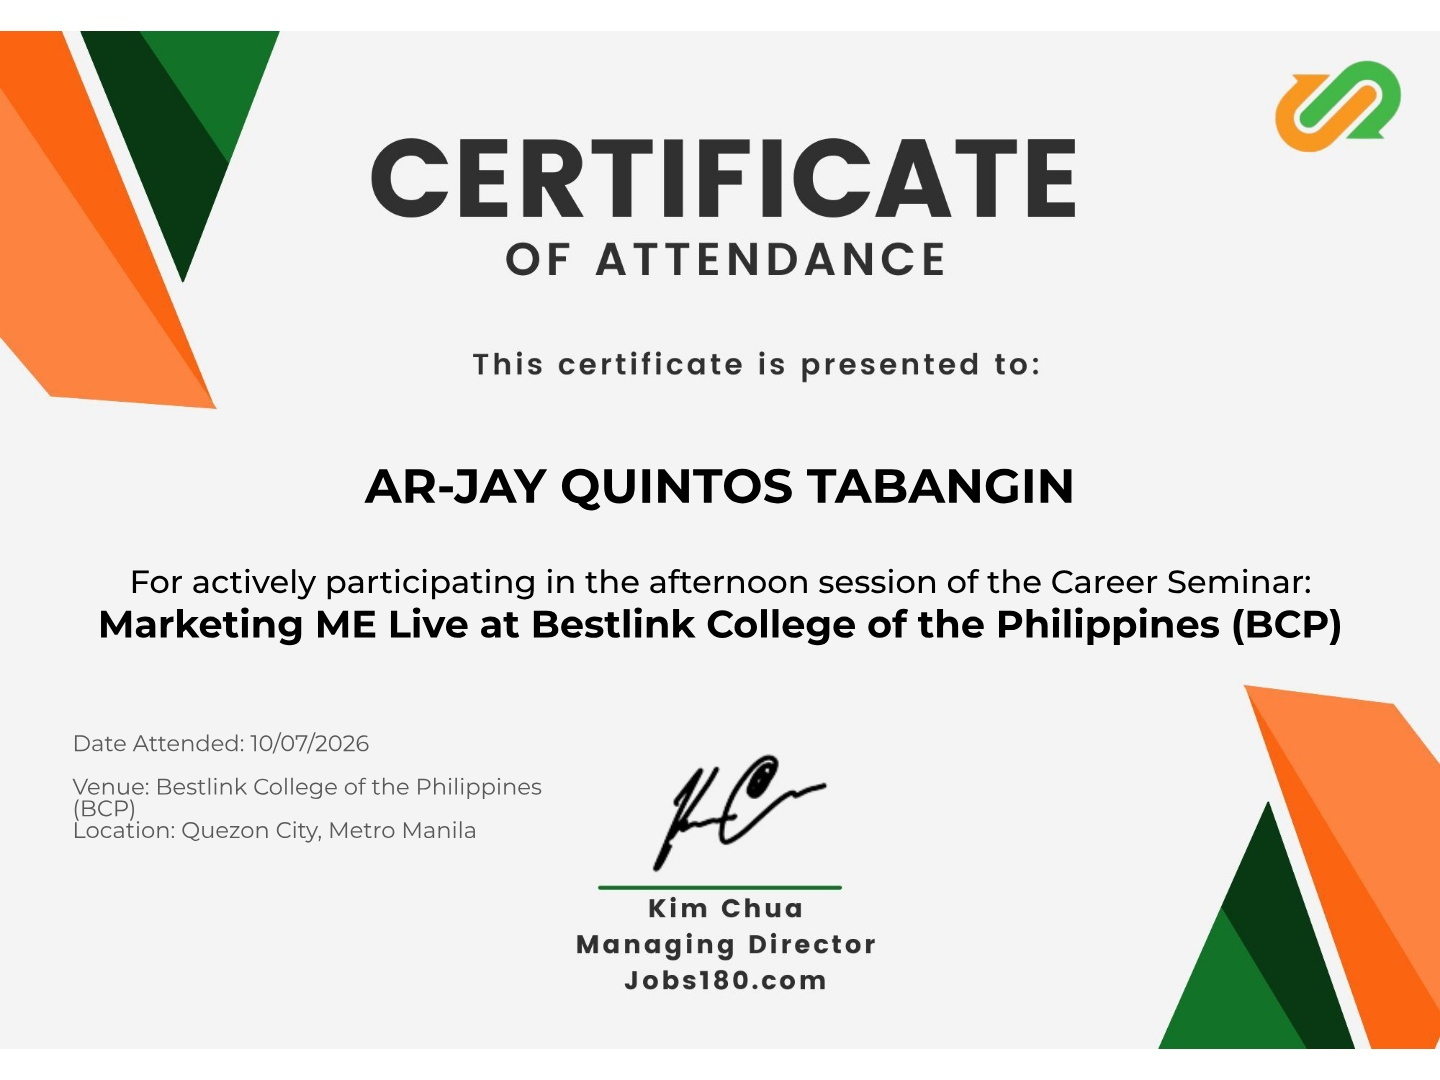
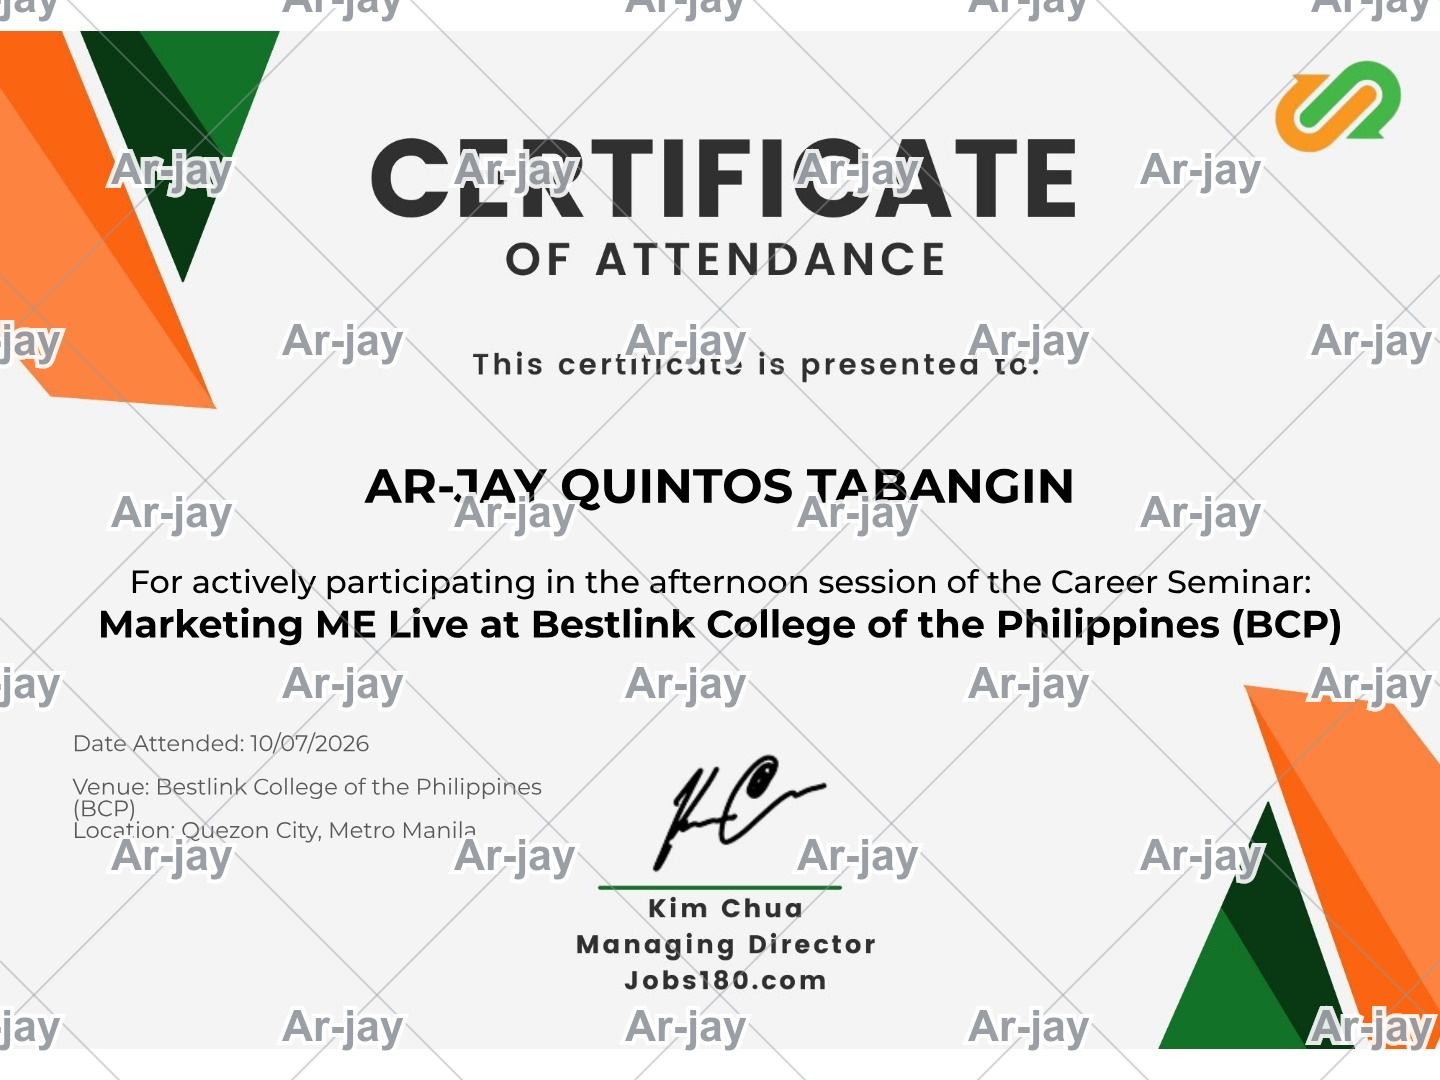
Add anti-theft diagonal Ar-jay watermark to all certificates and disable context menu on previews

diff --git a/portfolio/app/page.tsx b/portfolio/app/page.tsx
@@ -101,7 +101,7 @@ export default function PortfolioPage() {
       description:
         'Official student-level course completion credential covering foundational cybersecurity principles, threat detection, online defense strategies, vulnerability mitigation, and organizational network safety.',
       skills: ['Cybersecurity', 'Threat Analysis', 'Network Defense', 'Incident Mitigation'],
-      image: '/certificates/cisco_cybersecurity.jpg?v=2',
+      image: '/certificates/cisco_cybersecurity.jpg?v=watermarked',
     },
     {
       id: 'cert-2',
@@ -114,7 +114,7 @@ export default function PortfolioPage() {
       description:
         'Official 16-hour credential awarded by the DICT ICT Academy covering international cybersecurity governance, risk management frameworks, and enterprise IT defense conducted in Tacloban City.',
       skills: ['Cybersecurity Governance', 'IT Management', 'Security Standards', 'Risk Management'],
-      image: '/certificates/dict_cybersecurity.jpg?v=2',
+      image: '/certificates/dict_cybersecurity.jpg?v=watermarked',
     },
     {
       id: 'cert-3',
@@ -128,7 +128,7 @@ export default function PortfolioPage() {
       description:
         'Comprehensive completion credential for mastering AI-driven development workflows, prompt engineering, AI coding assistants, and modern software paradigms taught by Mar Wie Ang.',
       skills: ['AI-Driven Development', 'Prompt Engineering', 'Full Stack AI', 'Modern Workflows'],
-      image: '/certificates/aidev_fundamentals.jpg?v=2',
+      image: '/certificates/aidev_fundamentals.jpg?v=watermarked',
     },
     {
       id: 'cert-4',
@@ -141,7 +141,7 @@ export default function PortfolioPage() {
       description:
         'Official Certificate of Attendance for participating in the career seminar Marketing ME Live at Bestlink College of the Philippines, Quezon City, presented by Managing Director Kim Chua.',
       skills: ['Personal Branding', 'Professional Communication', 'Career Positioning', 'Client Relations'],
-      image: '/certificates/bcp_marketing_me.jpg?v=2',
+      image: '/certificates/bcp_marketing_me.jpg?v=watermarked',
     },
   ];
 
@@ -572,13 +572,16 @@ export default function PortfolioPage() {
               >
                 <div className="space-y-4">
                   {/* Certificate Thumbnail Preview */}
-                  <div className="relative aspect-[16/10] w-full rounded-2xl overflow-hidden bg-zinc-900 border border-zinc-800">
+                  <div 
+                    onContextMenu={(e) => e.preventDefault()}
+                    className="relative aspect-[16/10] w-full rounded-2xl overflow-hidden bg-zinc-900 border border-zinc-800 select-none"
+                  >
                     <Image
                       src={cert.image}
                       alt={cert.title}
                       fill
                       unoptimized
-                      className="object-cover object-top group-hover:scale-105 transition-transform duration-300"
+                      className="object-cover object-top group-hover:scale-105 transition-transform duration-300 pointer-events-none"
                     />
                     <div className="absolute top-3 left-3 px-2.5 py-1 rounded-full bg-black/80 backdrop-blur-md text-[10px] font-mono font-bold text-[#FF5A5F] border border-zinc-800">
                       {cert.badge}
@@ -939,13 +942,16 @@ export default function PortfolioPage() {
                       className="relative w-full max-w-3xl rounded-3xl bg-zinc-950 border border-zinc-800 overflow-hidden shadow-2xl space-y-5 my-auto max-h-[92vh] flex flex-col"
                       onClick={(e) => e.stopPropagation()}
                     >
-                      <div className="relative aspect-[4/3] sm:aspect-[16/10] max-h-[58vh] w-full bg-zinc-900/90 flex items-center justify-center p-3">
+                      <div 
+                        onContextMenu={(e) => e.preventDefault()}
+                        className="relative aspect-[4/3] sm:aspect-[16/10] max-h-[58vh] w-full bg-zinc-900/90 flex items-center justify-center p-3 select-none"
+                      >
                         <Image
                           src={selectedCertificate.image}
                           alt={selectedCertificate.title}
                           fill
                           unoptimized
-                          className="object-contain p-2"
+                          className="object-contain p-2 pointer-events-none"
                         />
                         <button
                           onClick={() => setSelectedCertificate(null)}
